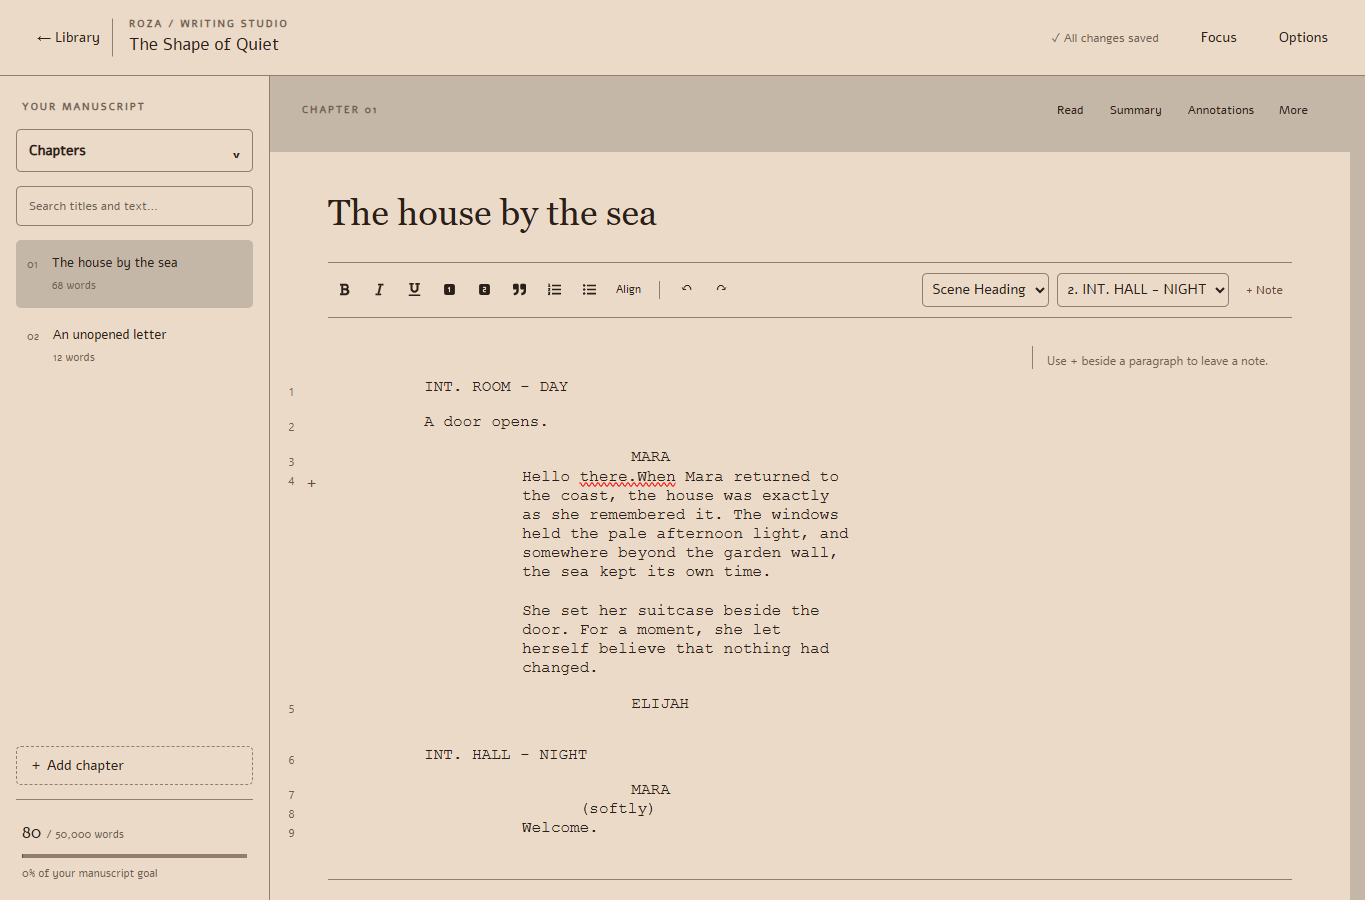
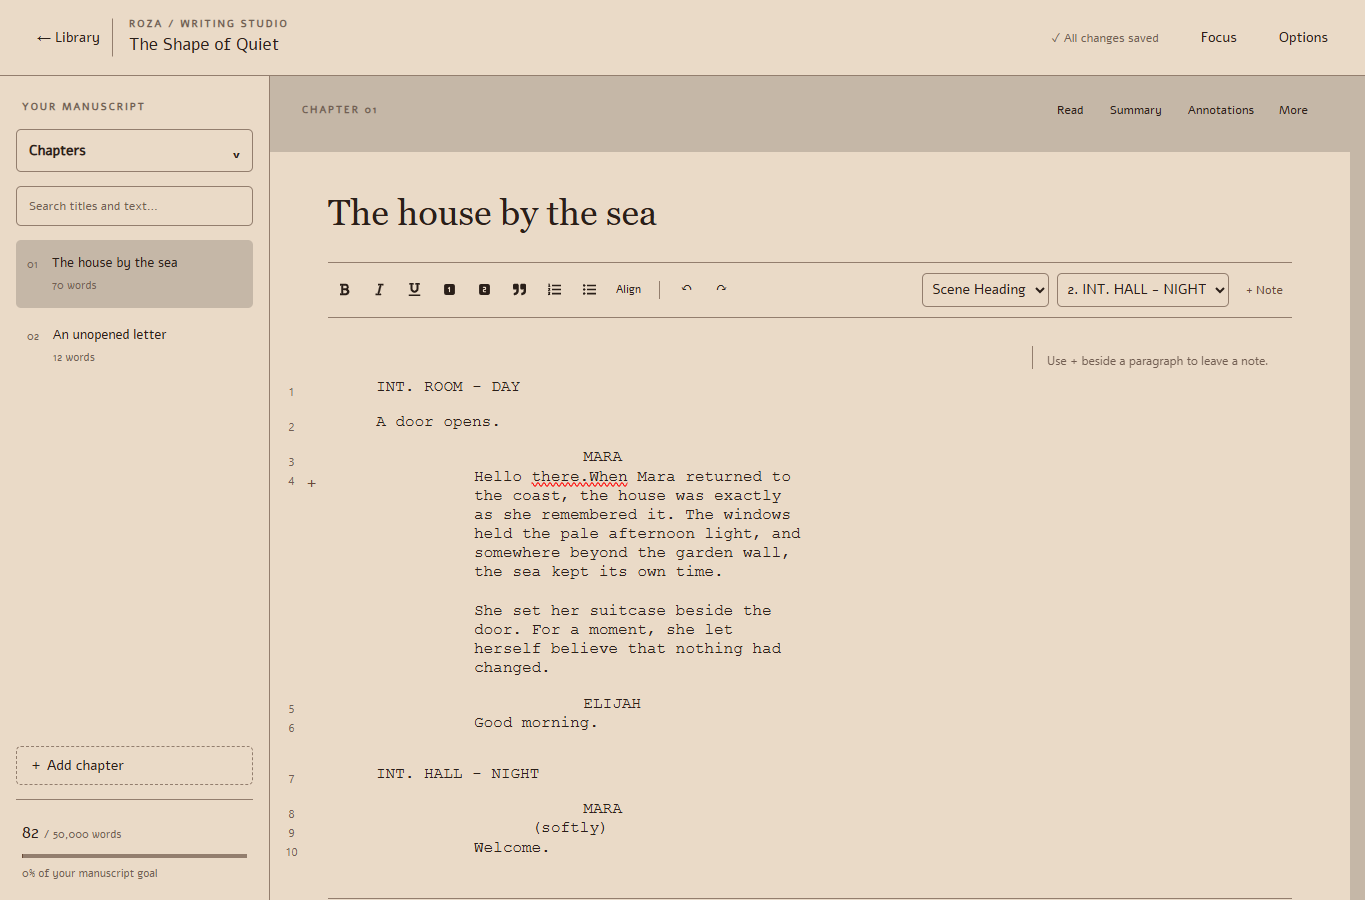
fix: initialize empty screenplays with a usable scene heading

diff --git a/frontend/src/components/WritingStudio/screenplay.ts b/frontend/src/components/WritingStudio/screenplay.ts
@@ -14,12 +14,38 @@ export const screenplayTypes: ScreenplayType[] = [
 export const isScreenplay = (type: string): type is ScreenplayType =>
   screenplayTypes.includes(type as ScreenplayType);
 
+export function screenplayStart(
+  nodes: SlateCustomElement[],
+): SlateCustomElement[] {
+  if (!nodes.length)
+    return [{ type: "scene_heading", children: [{ text: "" }] }];
+  if (
+    nodes.length === 1 &&
+    Node.string(nodes[0]) === "" &&
+    nodes[0].children.every((child) => "text" in child)
+  ) {
+    return [
+      {
+        type: "scene_heading",
+        children: nodes[0]
+          .children as import("../../../../shared/types/books").SlateCustomText[],
+      },
+    ];
+  }
+  return nodes;
+}
+
 /** Change block metadata only, preserving text leaves and annotation paths. */
 export function proseBlocks(nodes: SlateCustomElement[]): SlateCustomElement[] {
-  return nodes.map(node => {
-    if (node.type === "scene_heading" || node.type === "action" ||
-        node.type === "character" || node.type === "dialogue" ||
-        node.type === "parenthetical" || node.type === "transition") {
+  return nodes.map((node) => {
+    if (
+      node.type === "scene_heading" ||
+      node.type === "action" ||
+      node.type === "character" ||
+      node.type === "dialogue" ||
+      node.type === "parenthetical" ||
+      node.type === "transition"
+    ) {
       const paragraph = { ...node, type: "paragraph" as const };
       delete paragraph.align;
       return paragraph;
@@ -123,7 +149,11 @@ export function withScreenplay<T extends Editor>(
     }
     const index = editor.selection?.anchor.path[0];
     const block = index === undefined ? undefined : editor.children[index];
-    if (block && Element.isElement(block) && block.children.some(Element.isElement)) {
+    if (
+      block &&
+      Element.isElement(block) &&
+      block.children.some(Element.isElement)
+    ) {
       insertBreak();
       return;
     }

diff --git a/frontend/src/components/WritingStudio/ManuscriptEditor.tsx b/frontend/src/components/WritingStudio/ManuscriptEditor.tsx
@@ -4,9 +4,10 @@ import {
   screenplayTypes,
   withScreenplay,
   parseScreenplay,
+  screenplayStart,
 } from "./screenplay";
 import { ReactNode, useMemo, useRef, useState } from "react";
-import { createEditor, Editor, Range, Text, Transforms } from "slate";
+import { createEditor, Editor, Range, Text, Transforms, Node } from "slate";
 import { ChapterAnnotation } from "../../../../shared/types/books";
 import { AnnotationMargin } from "./AnnotationMargin";
 import { transformAnnotations, validAnchor } from "./annotations";
@@ -192,9 +193,11 @@ export function ManuscriptEditor({
     <Slate
       editor={editor}
       initialValue={
-        value.length
-          ? structuredClone(value)
-          : [{ type: "paragraph", children: [{ text: "" }] }]
+        format === "screenplay"
+          ? structuredClone(screenplayStart(value))
+          : value.length
+            ? structuredClone(value)
+            : [{ type: "paragraph", children: [{ text: "" }] }]
       }
       onChange={(next) => {
         if (
@@ -227,6 +230,11 @@ export function ManuscriptEditor({
         }
       >
         <Editable
+          autoFocus={
+            !readOnly &&
+            format === "screenplay" &&
+            value.every((node) => Node.string(node) === "")
+          }
           className={`ws-prose ${format === "screenplay" ? "sp-page" : ""}`}
           onKeyDown={(event) => {
             if (readOnly || event.nativeEvent.isComposing) return;
@@ -274,7 +282,9 @@ export function ManuscriptEditor({
           dir="auto"
           readOnly={readOnly}
           spellCheck
-          placeholder={placeholder}
+          placeholder={
+            format === "screenplay" ? "INT. LOCATION - DAY" : placeholder
+          }
           onMouseMove={(event) => {
             const element = (event.target as HTMLElement).closest(
               '[data-slate-node="element"]',

diff --git a/frontend/src/components/WritingStudio/WritingStudio.tsx b/frontend/src/components/WritingStudio/WritingStudio.tsx
@@ -1,5 +1,5 @@
 import { ChapterFormatDialog } from "./ChapterFormatDialog";
-import { proseBlocks } from "./screenplay";
+import { proseBlocks, screenplayStart } from "./screenplay";
 import { downloadScreenplayPdf } from "./screenplayPdf";
 import { ItemMenu } from "./ItemMenu";
 import { CategorySelect } from "./CategorySelect";
@@ -326,8 +326,12 @@ export function Workspace({ initialBook }: { initialBook: Book }) {
             onClose={() => setFormatChapter(null)}
             onApply={(format) => {
               if (!store.recovery) {
-                updateItem(format === "prose" ? { format, text: proseBlocks(item.text) } : { format });
-                if (format === "prose") setRestoreKey(key => key + 1);
+                const text =
+                  format === "prose"
+                    ? proseBlocks(item.text)
+                    : screenplayStart(item.text);
+                updateItem({ format, text });
+                if (text !== item.text) setRestoreKey((key) => key + 1);
               }
               setFormatChapter(null);
             }}

diff --git a/frontend/src/components/WritingStudio/writingStudio.css b/frontend/src/components/WritingStudio/writingStudio.css
@@ -2053,3 +2053,11 @@ padding: 6px 10px;
 .ws-toolbar-end{display:flex;align-items:center;flex-wrap:wrap;gap:8px;margin-inline-start:auto;max-width:100%;min-width:0;}
 .ws-toolbar-end .ws-add-selection-note{margin-left:0;white-space:nowrap;}
 .ws-toolbar-end .sp-tools button{width:auto;height:auto;}
+
+/* Empty Slate blocks have no intrinsic width: reserve the script column explicitly. */
+.sp-page{width:100%;}
+.ws-annotated-editor{--ws-annotation-space:292px;}
+.ws-annotated-editor > .sp-page{width:min(6in,calc(100% - var(--ws-annotation-space)));margin-left:max(0px,calc((100% - var(--ws-annotation-space) - 6in)/2));margin-right:var(--ws-annotation-space);}
+@media(max-width:1050px) and (min-width:761px){.ws-annotated-editor{--ws-annotation-space:222px;}}
+@media(max-width:760px){.ws-annotated-editor{--ws-annotation-space:0px;}}
+.ws-prose > .sp-scene_heading:first-child{margin-top:0;}
